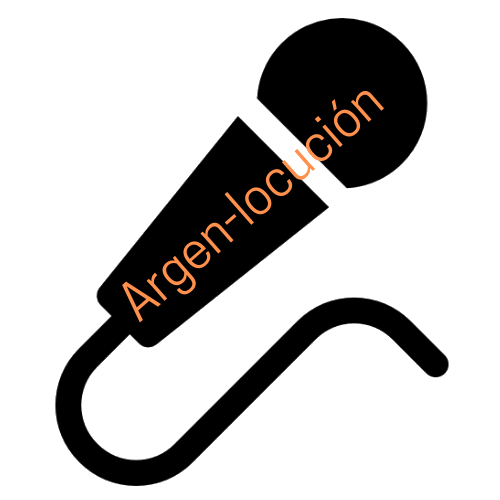
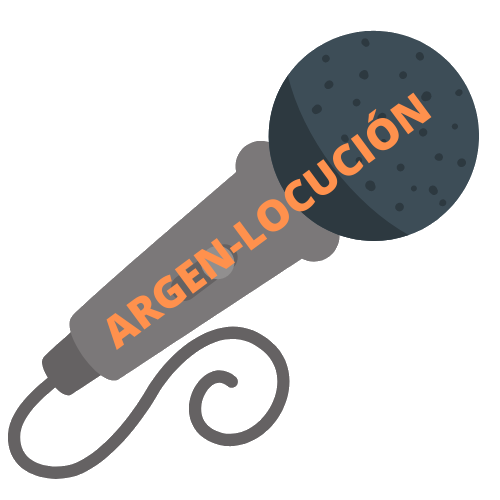
Agregando el icono de página y detalles finales

diff --git a/secciones/galería.html b/secciones/galería.html
@@ -10,7 +10,7 @@
     <link rel="stylesheet" href="../bootstrap5/css/bootstrap.min.css">
     <link rel="stylesheet" href="https://cdnjs.cloudflare.com/ajax/libs/animate.css/4.1.1/animate.min.css"/>
     <link rel="stylesheet" href="../sass-node/sass/main.css">
-    <title>Argen-locución - galería</title>
+    <link rel="shortcut icon" href="../imagenes/Argen-locución.png">
 </head>
 <body>
     <!--------------------------------------------------HEADER------------------------------------------------------>

diff --git a/secciones/egresados.html b/secciones/egresados.html
@@ -10,6 +10,7 @@
     <link rel="stylesheet" href="../bootstrap5/css/bootstrap.min.css">
     <link rel="stylesheet" href="https://cdnjs.cloudflare.com/ajax/libs/animate.css/4.1.1/animate.min.css"/>
     <link rel="stylesheet" href="../sass-node/sass/main.css">
+    <link rel="shortcut icon" href="../imagenes/Argen-locución.png">
 </head>
 <body>
         <!--------------------------------------------------HEADER------------------------------------------------------>

diff --git a/secciones/empresas.html b/secciones/empresas.html
@@ -10,6 +10,7 @@
     <link rel="stylesheet" href="../bootstrap5/css/bootstrap.min.css">
     <link rel="stylesheet" href="https://cdnjs.cloudflare.com/ajax/libs/animate.css/4.1.1/animate.min.css"/>
     <link rel="stylesheet" href="../sass-node/sass/main.css">
+    <link rel="shortcut icon" href="../imagenes/Argen-locución.png">
 </head>
 <body>
         <!--------------------------------------------------HEADER------------------------------------------------------>

diff --git a/secciones/contacto.html b/secciones/contacto.html
@@ -10,6 +10,7 @@
     <link rel="stylesheet" href="../bootstrap5/css/bootstrap.min.css">
     <link rel="stylesheet" href="https://cdnjs.cloudflare.com/ajax/libs/animate.css/4.1.1/animate.min.css"/>
     <link rel="stylesheet" href="../sass-node/sass/main.css">
+    <link rel="shortcut icon" href="../imagenes/Argen-locución.png">
 </head>
 <body>
     <!--------------------------------------------------HEADER------------------------------------------------------>

diff --git a/secciones/profesionales.html b/secciones/profesionales.html
@@ -10,6 +10,7 @@
     <link rel="stylesheet" href="../bootstrap5/css/bootstrap.min.css">
     <link rel="stylesheet" href="https://cdnjs.cloudflare.com/ajax/libs/animate.css/4.1.1/animate.min.css"/>
     <link rel="stylesheet" href="../sass-node/sass/main.css">
+    <link rel="shortcut icon" href="../imagenes/Argen-locución.png">
 </head>
 <body>
     <!--------------------------------------------------HEADER------------------------------------------------------>

diff --git a/index.html b/index.html
@@ -10,6 +10,7 @@
     <link rel="stylesheet" href="./bootstrap5/css/bootstrap.min.css">
     <link rel="stylesheet" href="https://cdnjs.cloudflare.com/ajax/libs/animate.css/4.1.1/animate.min.css"/>
     <link rel="stylesheet" href="./sass-node/sass/main.css">
+    <link rel="shortcut icon" href="./imagenes/Argen-locución.png">
 </head>
 <body>
     <!--------------------------------------------------HEADER------------------------------------------------------>

diff --git a/sass-node/sass/main.scss b/sass-node/sass/main.scss
@@ -21,7 +21,7 @@
 }
 
 .iconoPaginaWeb{
-    @include ancho_y_alto(12rem, 12rem);
+    @include ancho_y_alto(10rem, 10rem);
     margin: 0.25rem 1rem 0 1rem;
 }
 

diff --git a/sass-node/sass/main.css b/sass-node/sass/main.css
@@ -25,8 +25,8 @@ body {
 }
 
 .iconoPaginaWeb {
-  width: 12rem;
-  height: 12rem;
+  width: 10rem;
+  height: 10rem;
   margin: 0.25rem 1rem 0 1rem;
 }
 
